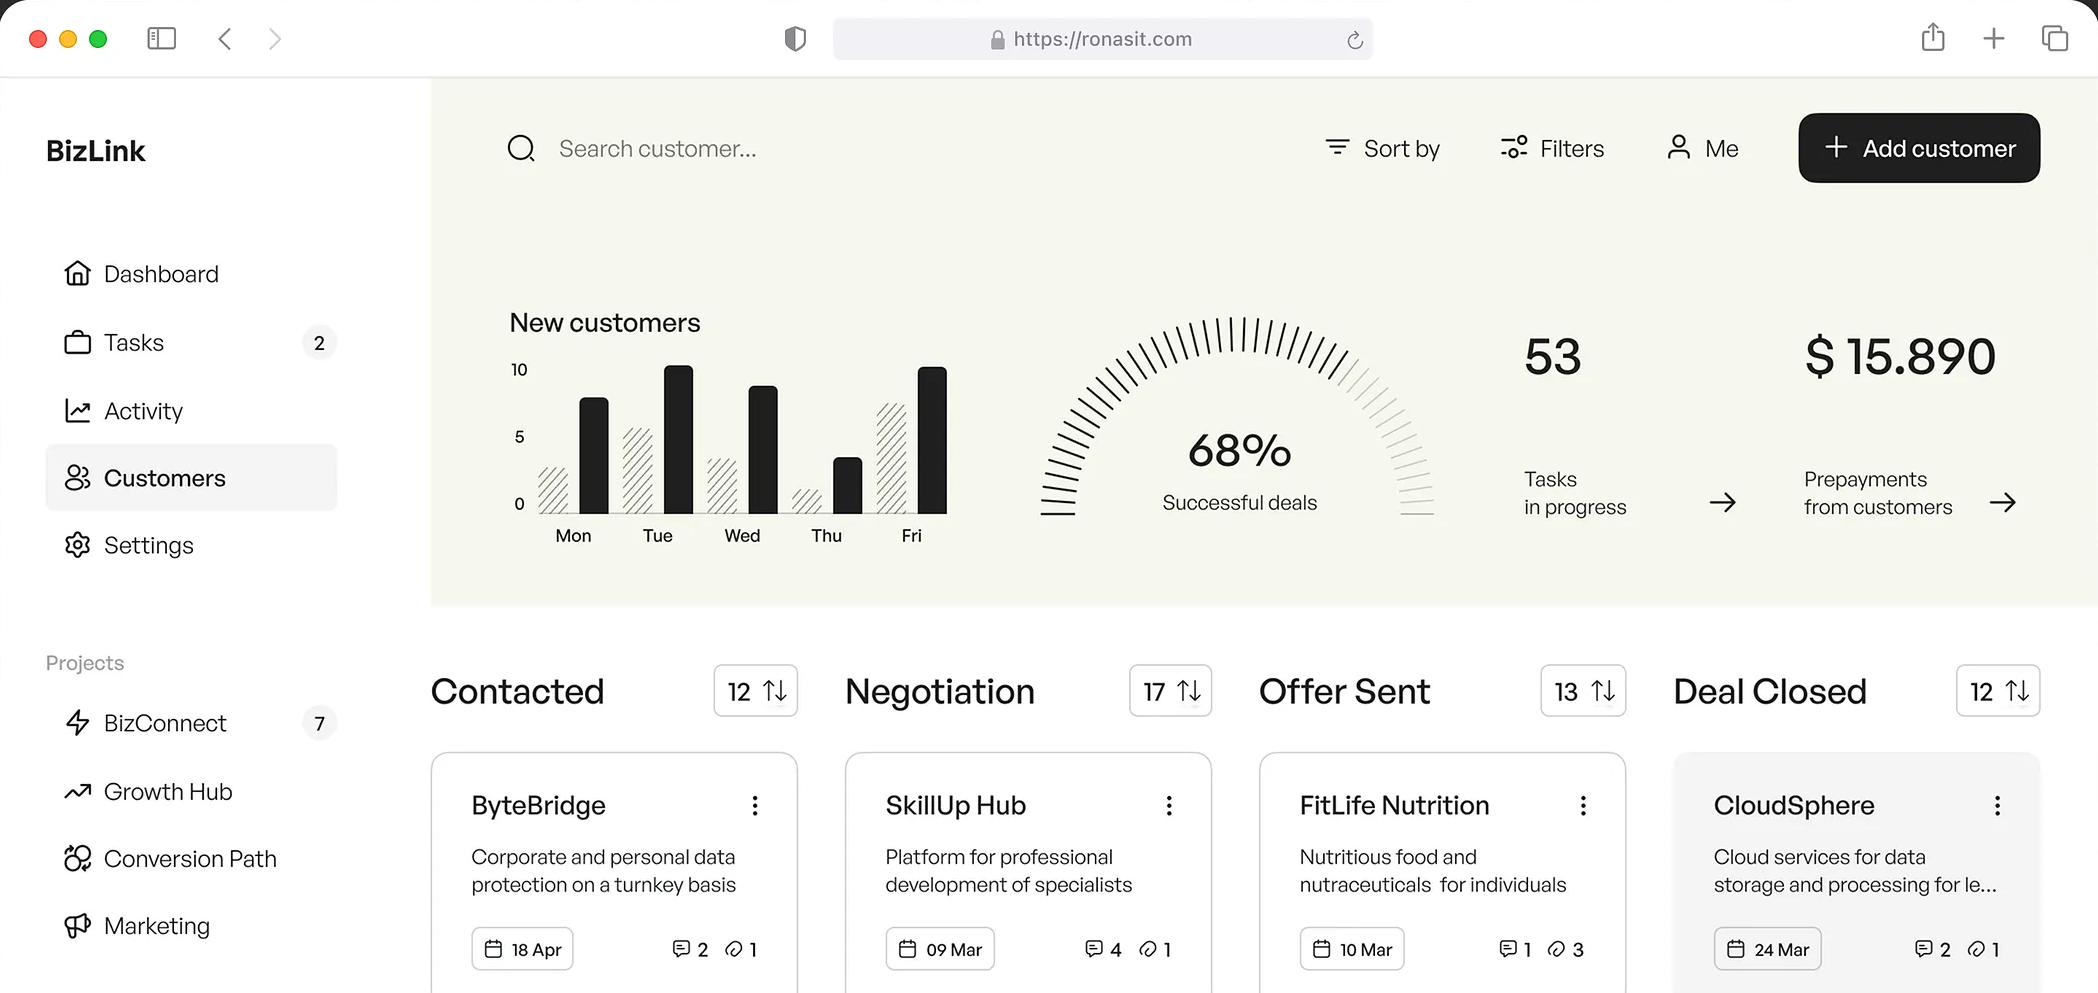
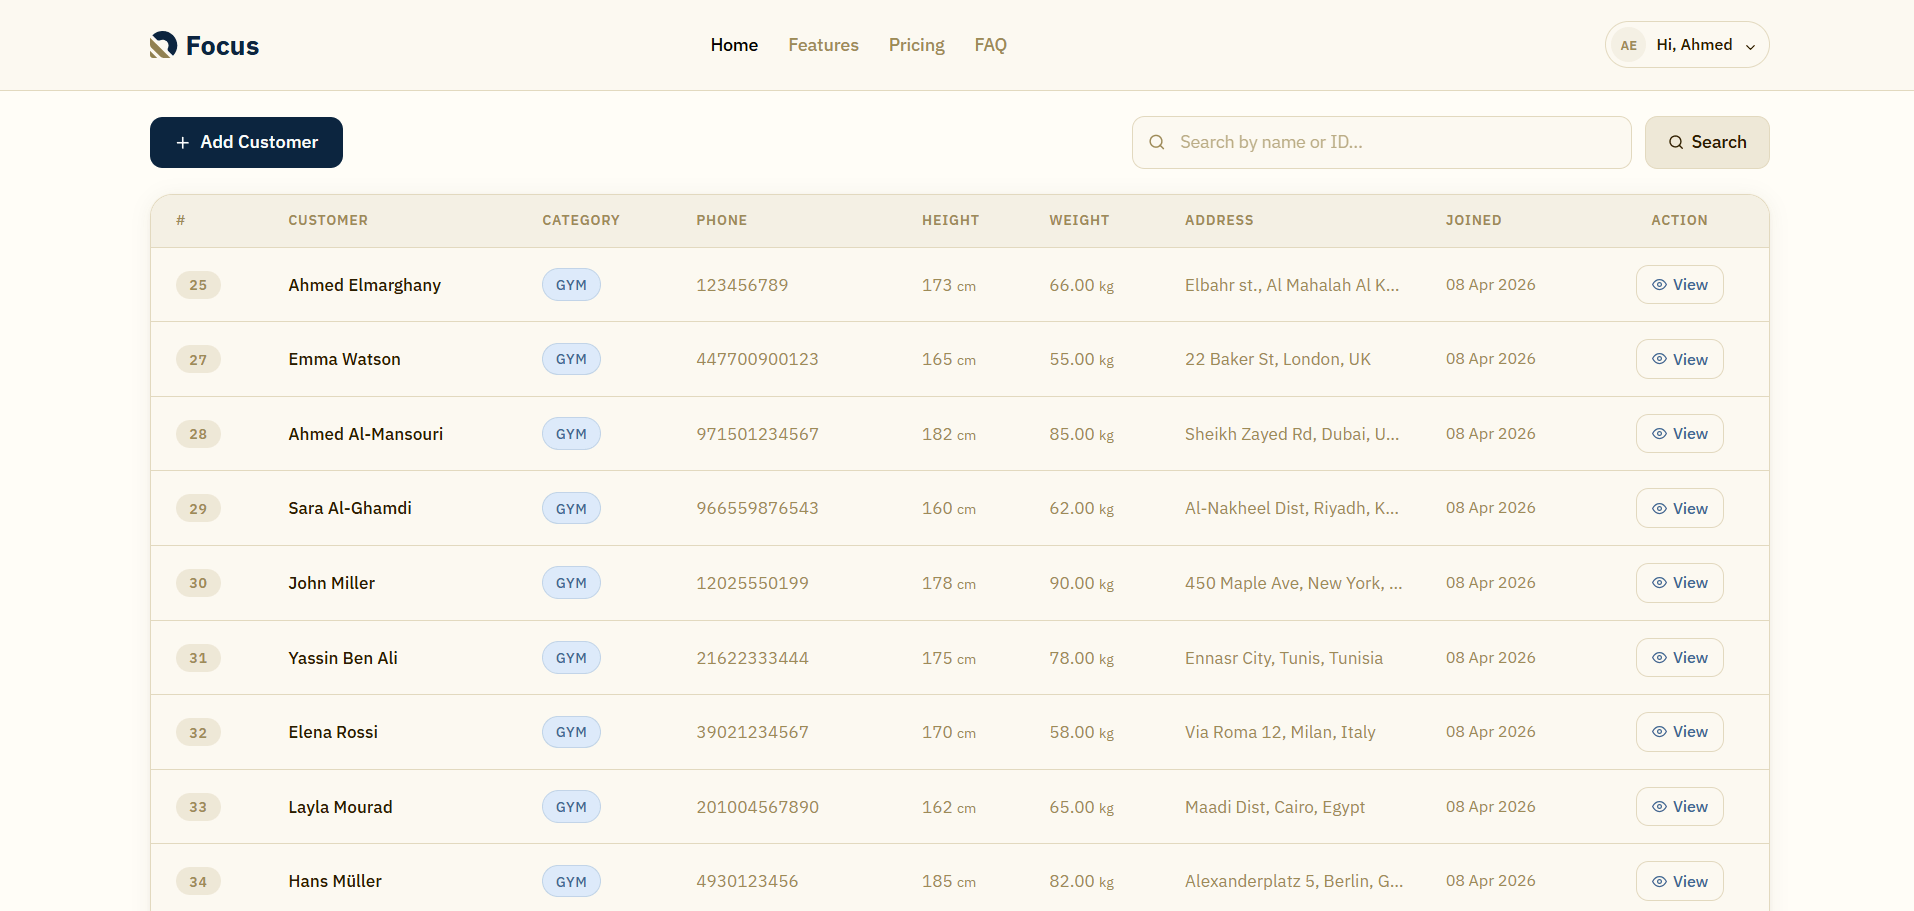
style: update landing page visuals - change hero image - refine button styles - update screenshot

diff --git a/project/static/css/hero.css b/project/static/css/hero.css
@@ -124,7 +124,7 @@
 }
 
 .btn-cta-secondary {
-    border: 2px solid var(--border);
+    /* border: 2px solid var(--border); */
     font-weight: 600;
     font-size: 1rem;
     white-space: nowrap;
@@ -225,15 +225,34 @@
     .logo-item__name {
         font-size: .9rem;
     }
+
     .dashboard-frame {
-    position: relative;
-    overflow: hidden;
-    border: 0;
-    box-shadow:
-        0 0 0 0px rgba(0, 0, 0, .06),
-        0 0px 0px rgba(0, 0, 0, .14);
-    background: transparent;
+        position: relative;
+        overflow: hidden;
+        border: 0;
+        box-shadow:
+            0 0 0 0px rgba(0, 0, 0, .06),
+            0 0px 0px rgba(0, 0, 0, .14);
+        background: transparent;
     }
+}
+
+/* xs screens */
+@media (max-width: 380px) {
+    .hero-badge__pill {
+        padding: 4px 7px;
+        font-size: .65rem;
+    }
+
+    .hero-badge__text {
+        font-size: .65rem;
+    }
+
+    .hero-badge {
+        gap: 6px;
+    }
+
+
 }
 
 /* Tablet (576 – 991 px): still centred, moderate scale */
@@ -245,7 +264,7 @@
     .dashboard-frame {
         border-radius: 16px 16px 0 0;
     }
-    
+
 }
 
 /* Large desktop (≥ 1200 px) */

diff --git a/project/static/css/faq.css b/project/static/css/faq.css
@@ -29,7 +29,7 @@
 }
 
 .faq__contact a {
-    color: var(--primary);
+    color: var(--accent-foreground);
     font-weight: 600;
     text-decoration: none;
 }
